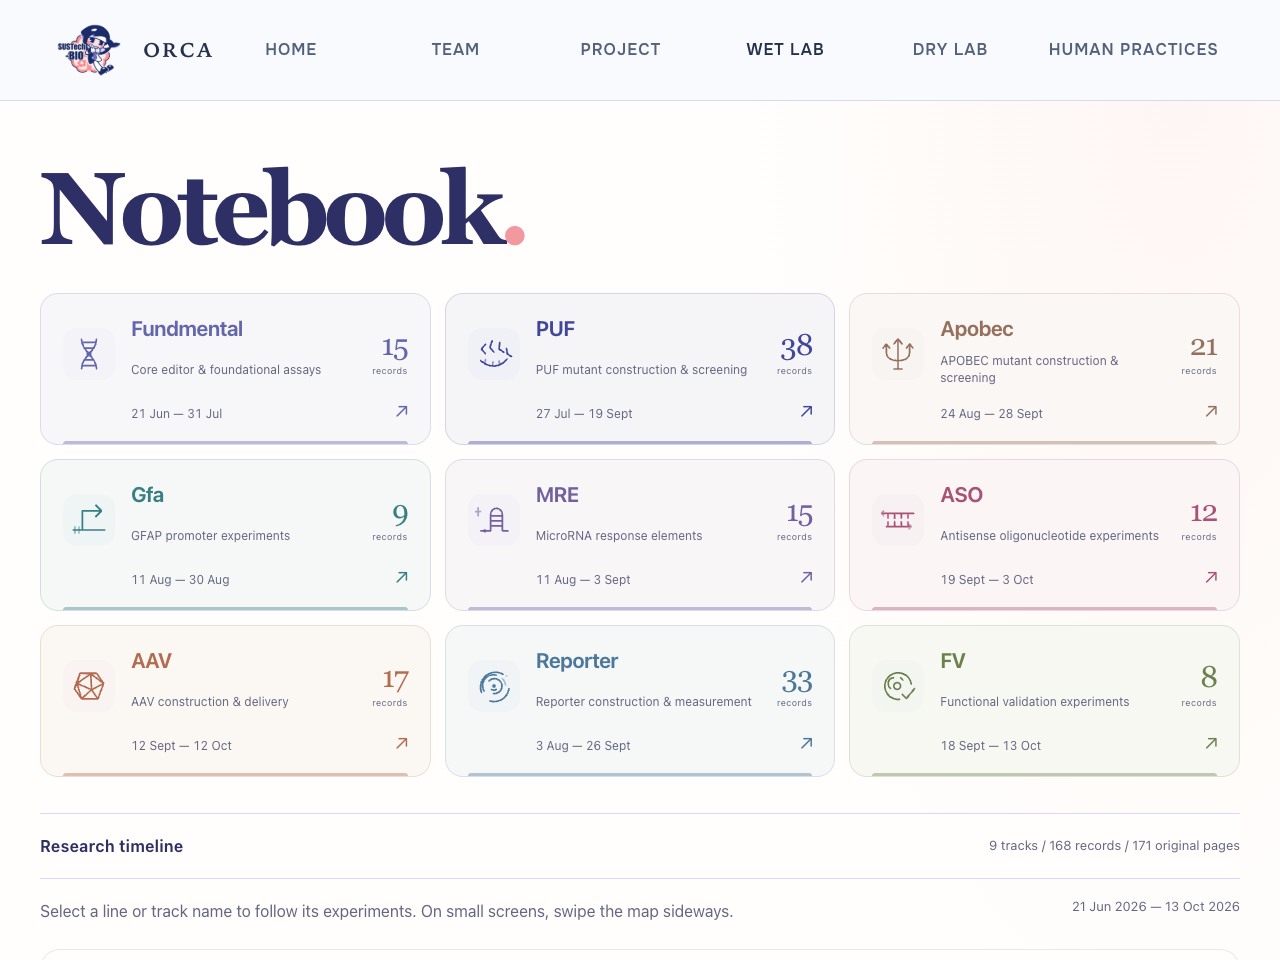
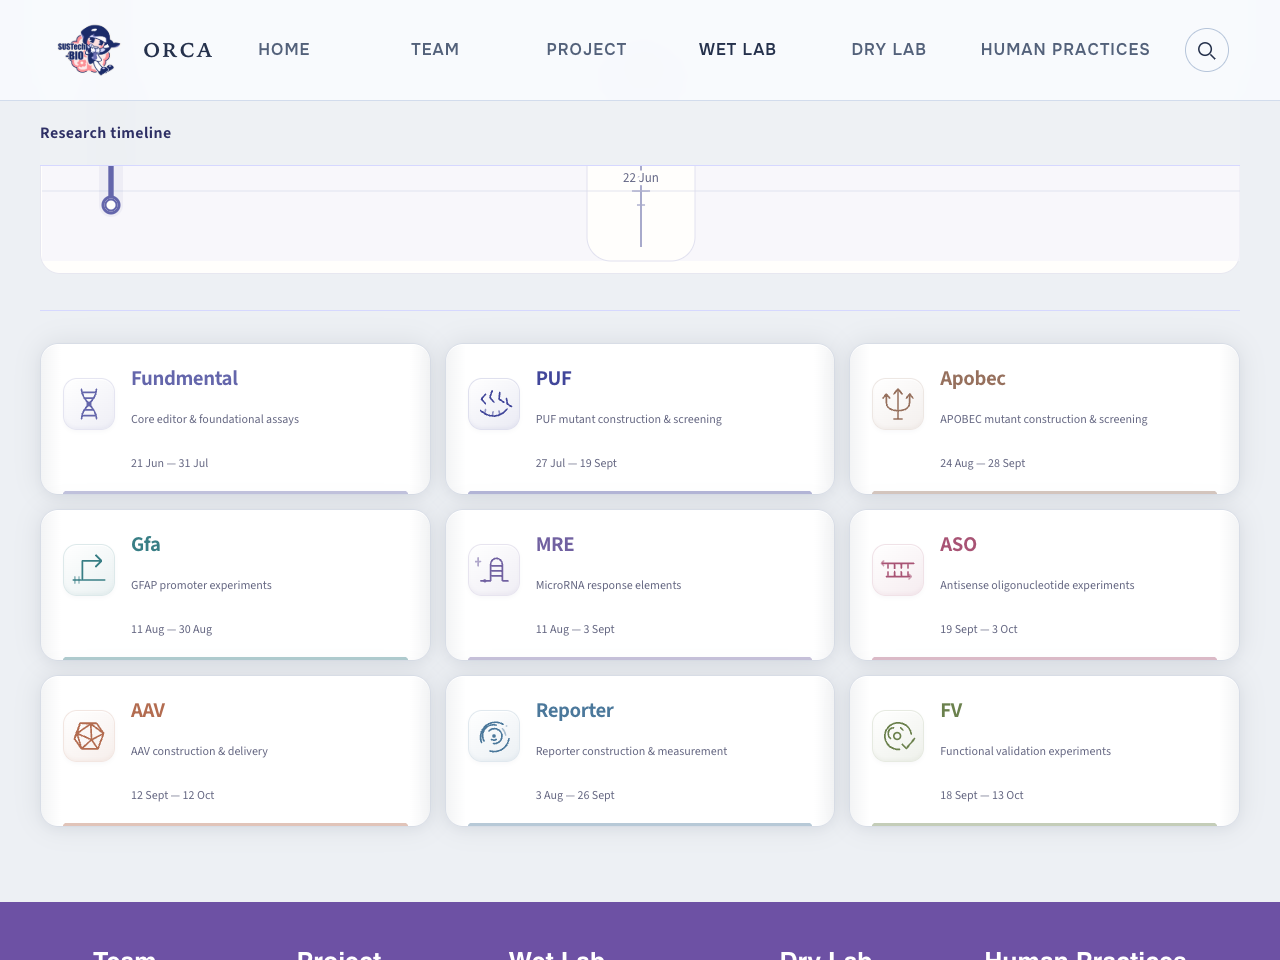
Lead Notebook overview with descending October-to-June timeline

diff --git a/static/notebook/notebook.css b/static/notebook/notebook.css
@@ -22,7 +22,7 @@ body:has(.notebook-page) .reading-orbit{display:none!important}
 /* Programmatic screen-reader focus on the track heading is not an interactive ring. */
 .nb-focus-heading:focus{outline:none!important}
 
-/* The track selector is the opening visual: nine distinct symbols, one system. */
+/* Nine distinct track symbols share one navigation system. */
 .nb-intro h1{margin-bottom:30px}
 .nb-tracks{display:grid;grid-template-columns:repeat(3,minmax(0,1fr));gap:14px;margin:0 0 36px}
 .nb-track-chip{position:relative;display:grid;grid-template-columns:52px minmax(0,1fr);grid-template-rows:auto 1fr auto;column-gap:16px;row-gap:6px;min-height:152px;padding:22px;border-radius:18px;text-align:left;border:1px solid color-mix(in srgb,var(--track) 10%,#e3e7ee);background:radial-gradient(ellipse at 100% 0%,color-mix(in srgb,var(--track) 6%,transparent),transparent 58%),linear-gradient(145deg,#fff 0%,#fff 42%,color-mix(in srgb,var(--track) 4%,#f4f6fa) 100%);box-shadow:inset 0 1px 0 #fff,inset 0 -1px 0 #ffffff99,0 2px 5px #29334a08,0 12px 24px #29334a09;transition:border-color .2s,box-shadow .2s,transform .2s;overflow:hidden}
@@ -148,3 +148,6 @@ body:not(.ot) main.notebook-page { background: #edf0f4; }
   background: linear-gradient(90deg, #f3f4f5, #fff 20px, #fff calc(100% - 20px), #f3f4f5);
   box-shadow: inset 0 1px 0 #fff, 0 0 24px 1px #5f667522, 0 4px 8px #34466a08;
 }
+
+/* Overview reads backward through the calendar, then reaches all track cards. */
+.nb-app:not(.is-focus) .nb-tracks{margin:36px 0 0;padding-top:32px;border-top:1px solid var(--nb-line)}

diff --git a/wiki/pages/notebook.html b/wiki/pages/notebook.html
@@ -7,7 +7,6 @@
     <h1>{{ content.title }}<span>.</span></h1>
   </header>
   <section class="nb-app" data-notebook data-index="{{ url_for('static', filename='notebook/index.json') }}" aria-label="Interactive research notebook" aria-busy="true">
-    <nav class="nb-tracks" data-tracks aria-label="Experimental tracks"></nav>
     <div class="nb-toolbar">
       <div class="nb-view-label"><button class="nb-back" type="button" data-back hidden aria-label="Return to timeline overview">← <span>Overview</span></button><span data-view-label>Research timeline</span></div>
       <label class="nb-track-switch" hidden data-switch-label>Track <select data-switch aria-label="Switch experimental track"></select></label>
@@ -22,6 +21,7 @@
       </div>
     </div>
     <div class="nb-end" data-end hidden></div>
+    <nav class="nb-tracks" data-tracks aria-label="Experimental tracks"></nav>
     <p class="nb-status" data-status role="status" aria-live="polite"></p>
   </section>
   <noscript><p>The interactive timeline needs JavaScript. <a href="{{ url_for('static', filename='notebook/catalog.html') }}">Browse the source index</a> for every date, experiment title and original PDF.</p></noscript>

diff --git a/docs/notebook/README.md b/docs/notebook/README.md
@@ -159,8 +159,8 @@ preview and static build; they are not a claim of an iGEM media upload.
 
 ## Visual hierarchy revision — 2026-10-17
 
-The title leads directly into a nine-card track selector, with one SVG
-navigation icon per track on a common 48px grid. Each card shows the indexed
+The overview opens on a descending calendar (October to June), followed by a
+nine-card track selector with one SVG navigation icon per track on a common 48px grid. Each card shows the indexed
 record count and actual date range. The redundant introductory copy is omitted.
 The shared calendar uses responsive lane positions across the available width,
 stronger lines and labels, alternating monthly bands, weekly guides and monthly
@@ -185,3 +185,14 @@ icosahedron. Reporter adapts the team's current SAP / SONAR symbol from
 `sonar_app/static/brand/sonar-symbol.svg`: broken concentric arcs and a central
 point, redrawn on the shared 48px grid in the track color. No external asset
 requests are made.
+
+
+## Timeline-first overview — 2026-10-18
+
+The overview begins with the latest date and runs downward toward the earliest
+(13 October to 21 June). Calendar bands, month headings, lane endpoints, labels,
+and pointer-to-date mapping all use this descending scale. Equal elapsed-day
+distances and concurrent dates remain aligned. The nine track cards follow the
+entire calendar in both the visible layout and DOM order. Selecting a card opens
+that track at its first record. Focus retains its chronological reading order
+and existing navigation; returning to the overview restores the saved position.

diff --git a/docs/notebook/VALIDATION.md b/docs/notebook/VALIDATION.md
@@ -91,3 +91,18 @@ Notebook Python checks, Node core checks, frozen build/link audit and exact
 PDF/preview inventory checks passed after removal. Chrome confirmed the updated
 overview totals, 15 focused records, no date options after July 31, and a
 390px layout without document overflow. See [Fundmental cutoff](qa/fundmental-cutoff.png).
+
+
+## Timeline-first descending overview — 2026-10-18
+
+Notebook Python checks, descending-scale Node checks and the frozen build audit
+passed. Browser assertions verify October is visible at entry, month headings
+run OCT / SEPT / AUG / JUL / JUN down the page, and all track cards sit below the
+calendar. Existing focus, date alignment, return-position, keyboard, multipage
+and mobile behavior is also covered by the browser suite.
+
+- [Overview on entry](qa/overview-entry.png)
+- [Track cards below June](qa/track-cards.png)
+
+The same checks passed after rebasing onto current main, preserving its Source
+Sans typography, grey canvas, white cards and removal of count annotations.
